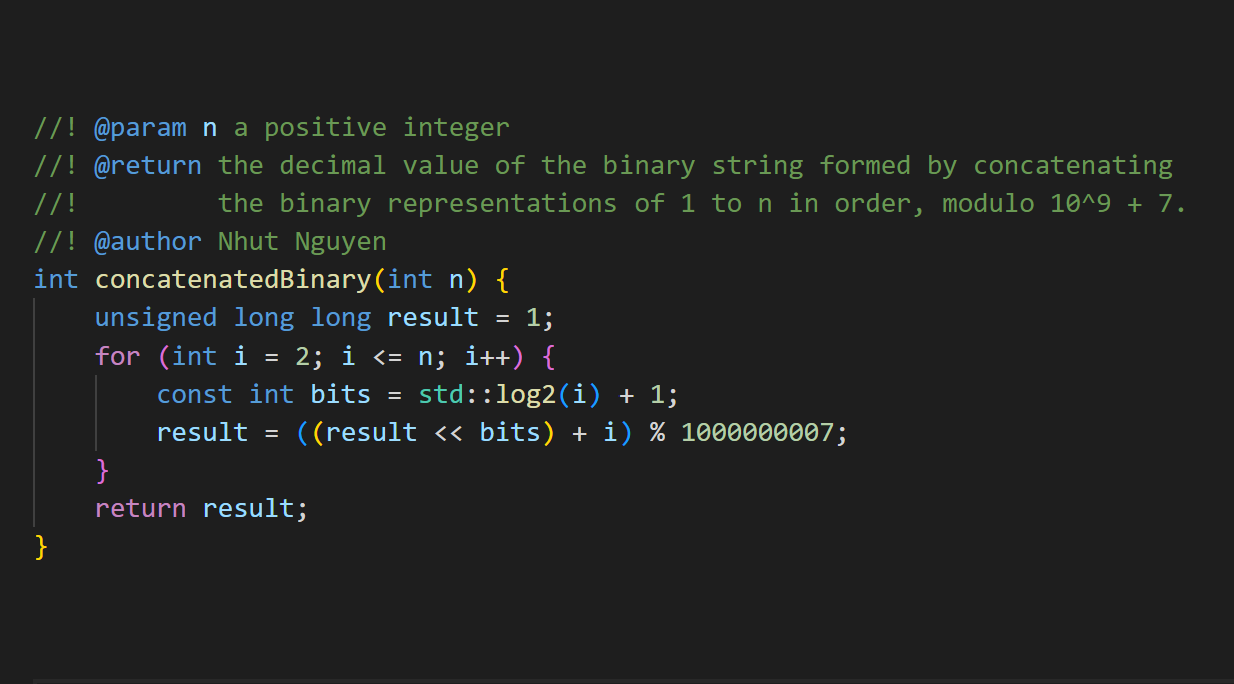
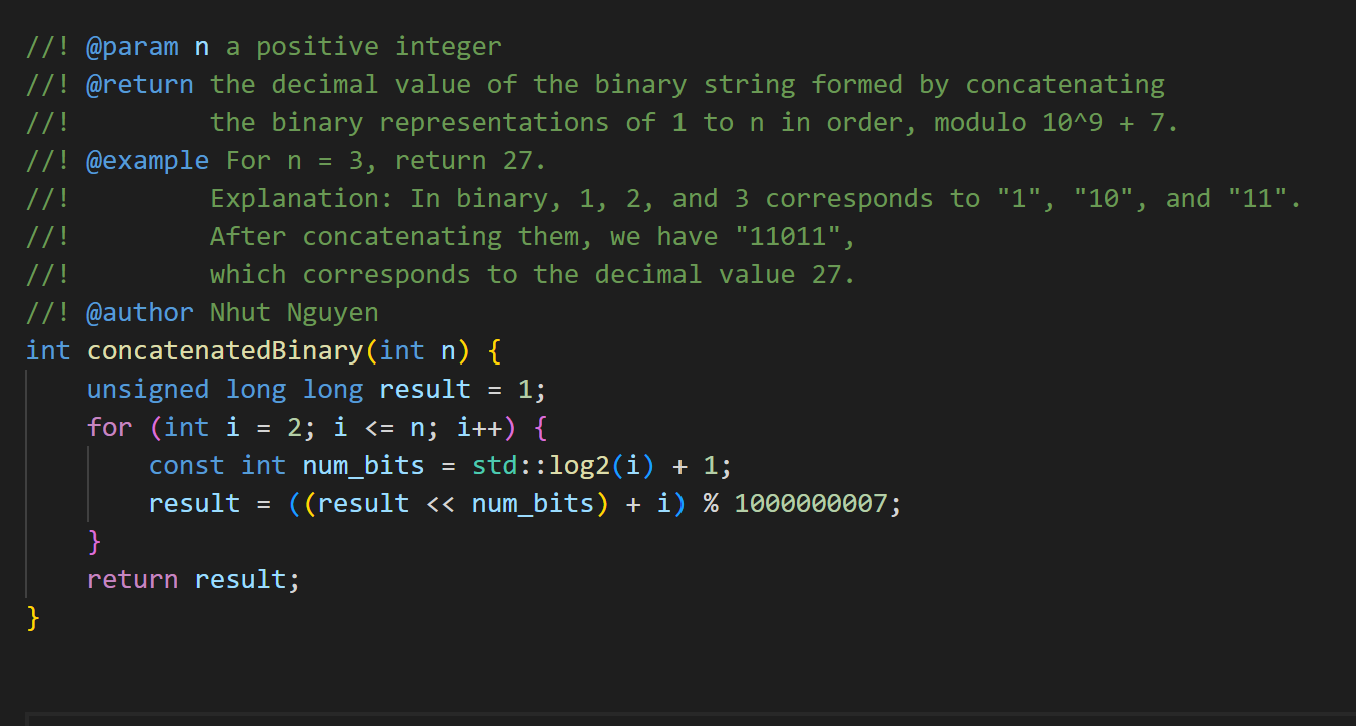
explain more precisely

Changed region(s): [[0.0, 0.0307, 0.9546, 0.8289], [0.4311, 0.4605, 0.4619, 0.4912]]

diff --git a/1680. Concatenation of Consecutive Binary Numbers/1680_Concatenation_of_Consecutive_Binary_Numbers.cpp b/1680. Concatenation of Consecutive Binary Numbers/1680_Concatenation_of_Consecutive_Binary_Numbers.cpp
@@ -4,12 +4,16 @@
 //! @param n a positive integer
 //! @return the decimal value of the binary string formed by concatenating
 //!         the binary representations of 1 to n in order, modulo 10^9 + 7.
+//! @example For n = 3, return 27.
+//!         Explanation: In binary, 1, 2, and 3 corresponds to "1", "10", and "11".
+//!         After concatenating them, we have "11011", 
+//!         which corresponds to the decimal value 27.
 //! @author Nhut Nguyen
 int concatenatedBinary(int n) {
     unsigned long long result = 1;
     for (int i = 2; i <= n; i++) {
-        const int bits = std::log2(i) + 1;        
-        result = ((result << bits) + i) % 1000000007;
+        const int num_bits = std::log2(i) + 1;        
+        result = ((result << num_bits) + i) % 1000000007;
     }
     return result;
 }

diff --git a/1680. Concatenation of Consecutive Binary Numbers/README.md b/1680. Concatenation of Consecutive Binary Numbers/README.md
@@ -45,21 +45,23 @@ First, let us list some first values of `n`.
 Look at `n = 3`, you can see the relationship between the decimal value of `"11011"` and the one of `"110"` (of `n = 2`) is:
 
 ```plain
-Dec("11011") = Dec("110") * 2^2 + 3.
+27 = 6 * 2^2 + 3
+Dec("11011") = Dec("110") * 2^num_bits("11") + Dec("11")
+Result(3) = Result(2) * 2^num_bits(3) + 3.
 ```
 
 The same equation for `n = 2`:
 
 ```plain
-Dec("110") = Dec("1") * 2^2 + 2.
+6 = 1 * 2^2 + 2
+Dec("110") = Dec("1") * 2^num_bits("10") + Dec("10")
+Result(2) = Result(1) * 2^num_bits(2) + 2.
 ```
-
-The exponents `2` of `2^2` in the relationships above are the number of bits of `n = 3` and `n = 2`.
 
 In general, the recursive relationship between `n` and `n - 1` is:
 
 ```plain
-Dec("Bin(1)..Bin(n)") = Dec("Bin(1).. Bin(n - 1)") * 2^num_bits(n) + n.
+Result(n) = Result(n - 1) * 2^num_bits(n) + n.
 ```
 
 #### Code
@@ -69,8 +71,8 @@ Dec("Bin(1)..Bin(n)") = Dec("Bin(1).. Bin(n - 1)") * 2^num_bits(n) + n.
 int concatenatedBinary(int n) {
     unsigned long long result = 1;
     for (int i = 2; i <= n; i++) {
-        const int bits = std::log2(i) + 1;        
-        result = ((result << bits) + i) % 1000000007;
+        const int num_bits = std::log2(i) + 1;        
+        result = ((result << num_bits) + i) % 1000000007;
     }
     return result;
 }
